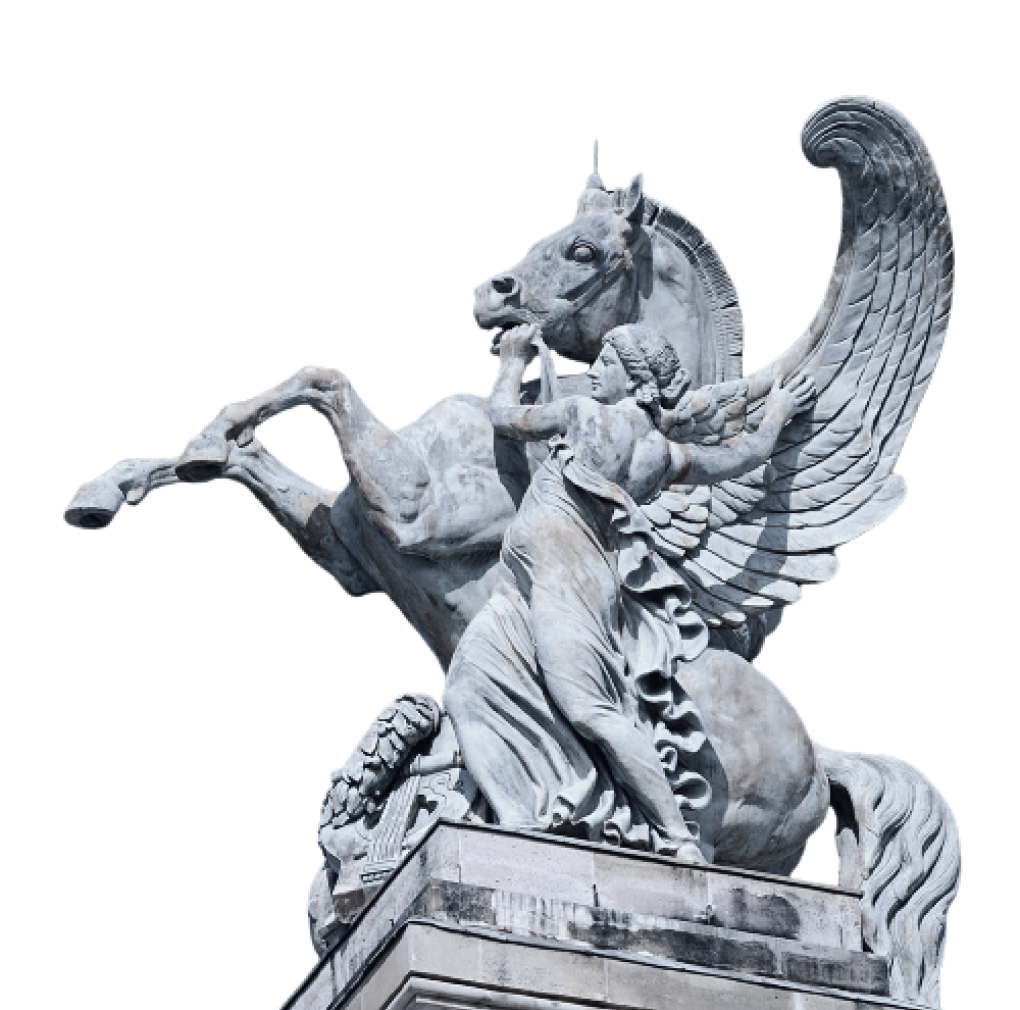
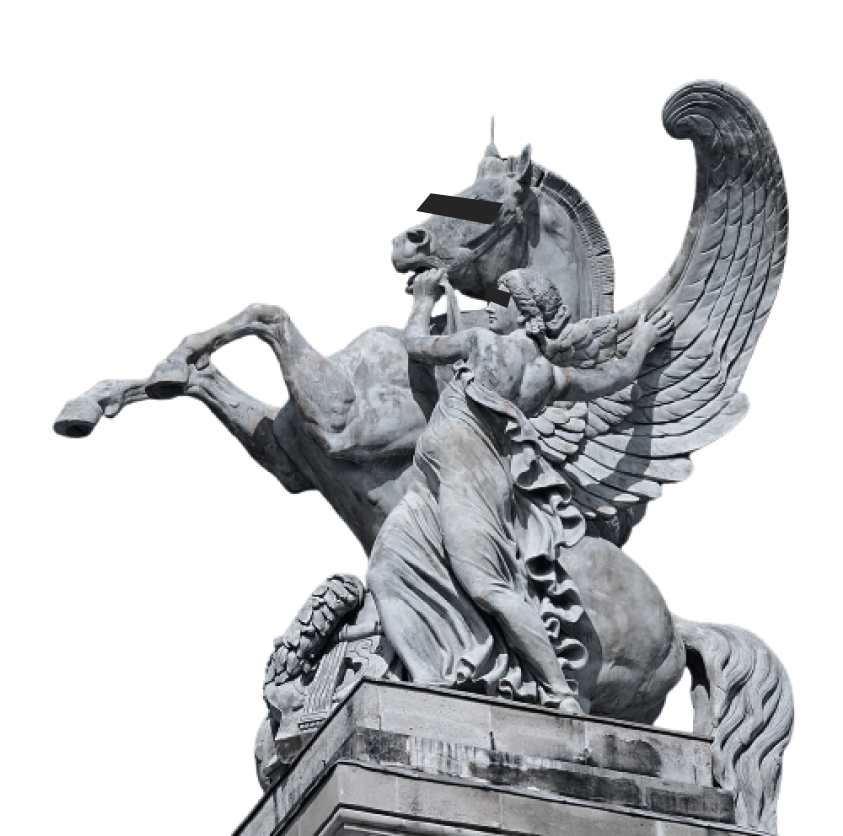
Key technologies section update

Changed region(s): [[0.0617, 0.0933, 0.9561, 1.0]]

diff --git a/src/lib/sections/KeyTechnologies.svelte b/src/lib/sections/KeyTechnologies.svelte
@@ -1,51 +1,66 @@
 <section id="key-technologies" class="relative bg-agora-blue-medium text-agora-white">
-  <div class="container relative px-8 py-24 text-center lg:text-left">
-    <div class="mx-auto lg:mx-0 max-w-lg xl:max-w-screen-sm">
+  <div class="container relative px-8 pt-24 lg:pb-24 text-center">
+    <div
+      class="mx-auto lg:mx-0 max-w-lg lg:max-w-screen-md lg:text-left lg:grid lg:grid-cols-2 lg:gap-16"
+    >
       <h2
-        class="mb-16 text-3xl lg:text-4xl 2xl:text-5xl font-bold tracking-tight font-display uppercase text-agora-pink-light"
+        class="mb-16 text-3xl lg:text-4xl 2xl:text-5xl font-bold tracking-tight font-display uppercase text-agora-pink-light lg:col-span-2"
       >
         Key technologies
       </h2>
+      <div>
+        <h3
+          class="mb-2 lg:mb-3 text-xl lg:text-2xl font-bold tracking-tight font-display uppercase"
+        >
+          Social Oracle Layer
+        </h3>
+        <p class="mb-8 lg:font-semibold 2xl:text-lg">
+          Two way social media integration Powered by Witnet to the blockchain creating a circular
+          information flow.
+        </p>
 
-      <h3 class="mb-2 lg:mb-3 text-xl lg:text-2xl font-bold tracking-tight font-display uppercase">
-        Social Oracle Layer
-      </h3>
-      <p class="mb-8 lg:font-semibold 2xl:text-lg">
-        Two way social media integration Powered by Witnet to the blockchain creating a circular
-        information flow.
-      </p>
+        <h3
+          class="mb-2 lg:mb-3 text-xl lg:text-2xl font-bold tracking-tight font-display uppercase"
+        >
+          On-chain Privacy
+        </h3>
+        <p class="mb-8 lg:font-semibold 2xl:text-lg">
+          Zero knowledge based self-sovereign identity management system for keeping the link
+          between your social media accounts and wallets private. This allows a private decision
+          making and sybil attack resistency for many cases.
+        </p>
+      </div>
 
-      <h3 class="mb-2 lg:mb-3 text-xl lg:text-2xl font-bold tracking-tight font-display uppercase">
-        On-chain Privacy
-      </h3>
-      <p class="mb-8 lg:font-semibold 2xl:text-lg">
-        Zero knowledge based self-sovereign identity management system for keeping the link between
-        your social media accounts and wallets private. This allows a private decision making and
-        sybil attack resistency for many cases.
-      </p>
+      <div>
+        <h3
+          class="mb-2 lg:mb-3 text-xl lg:text-2xl font-bold tracking-tight font-display uppercase"
+        >
+          Permissionless Tools
+        </h3>
+        <p class="mb-8 lg:font-semibold 2xl:text-lg">Fully open-source, hosted on IPFS.</p>
 
-      <h3 class="mb-2 lg:mb-3 text-xl lg:text-2xl font-bold tracking-tight font-display uppercase">
-        Permissionless Tools
-      </h3>
-      <p class="mb-8 lg:font-semibold 2xl:text-lg">Fully open-source, hosted on IPFS.</p>
+        <h3
+          class="mb-2 lg:mb-3 text-xl lg:text-2xl font-bold tracking-tight font-display uppercase"
+        >
+          Customizable
+        </h3>
+        <p class="mb-8 lg:font-semibold 2xl:text-lg">
+          Spaces can have their own custom domain name and unique appearance.
+        </p>
 
-      <h3 class="mb-2 lg:mb-3 text-xl lg:text-2xl font-bold tracking-tight font-display uppercase">
-        Customizable
-      </h3>
-      <p class="mb-8 lg:font-semibold 2xl:text-lg">
-        Spaces can have their own custom domain name and unique appearance.
-      </p>
-
-      <h3 class="mb-2 lg:mb-3 text-xl lg:text-2xl font-bold tracking-tight font-display uppercase">
-        Multi-chain
-      </h3>
-      <p class="lg:font-semibold 2xl:text-lg">
-        We integrate every major EVM-compatible blockchains and L2s besides Solana and Near.
-      </p>
+        <h3
+          class="mb-2 lg:mb-3 text-xl lg:text-2xl font-bold tracking-tight font-display uppercase"
+        >
+          Multi-chain
+        </h3>
+        <p class="lg:font-semibold 2xl:text-lg">
+          We integrate every major EVM-compatible blockchains and L2s besides Solana and Near.
+        </p>
+      </div>
     </div>
 
     <img
-      class="hidden lg:block absolute bottom-0 right-0 w-3/5"
+      class="lg:absolute lg:bottom-0 lg:-right-20 xl:right-0 w-full lg:w-2/5"
       src="/images/pegasus.png"
       alt="Pegasus"
     />
